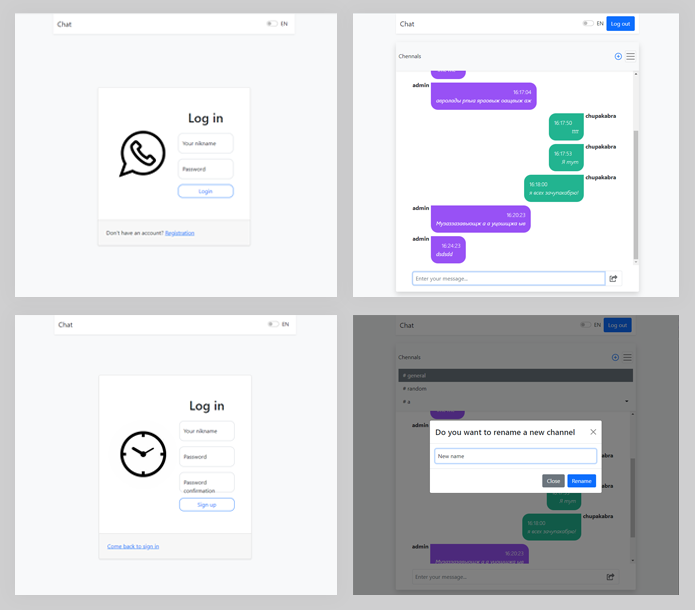
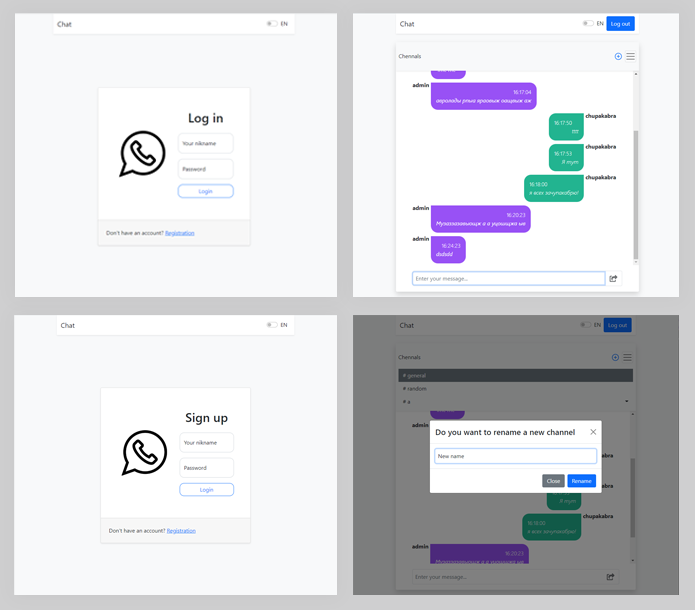
...

Changed region(s): [[0.1511, 0.6541, 0.3324, 0.9033], [0.1511, 0.6852, 0.2417, 0.7787], [0.0906, 0.5295, 0.1209, 0.5607]]

diff --git a/src/components/Loginform.jsx b/src/components/Loginform.jsx
@@ -34,7 +34,7 @@ const Loginform = () => {
 
   return (
     <Form className="col-12 col-md-6 mt-3 mt-mb-0" onSubmit={formik.handleSubmit}>
-      <h1 className="text-center mb-4">{t('loginForm.header')}</h1>
+      <h1 className="text-center mb-4">{t('registrationForm.header')}</h1>
       <Form.Group className="form-floating mb-3">
         <Form.Control
           className={classesForFieldLogin}
